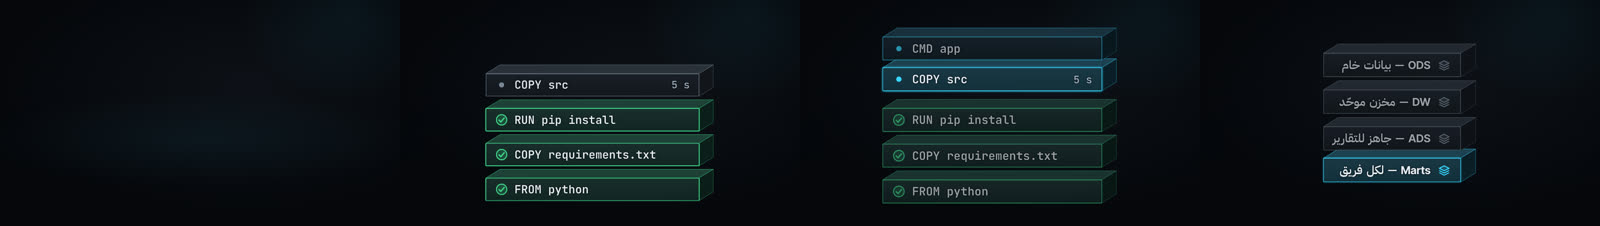
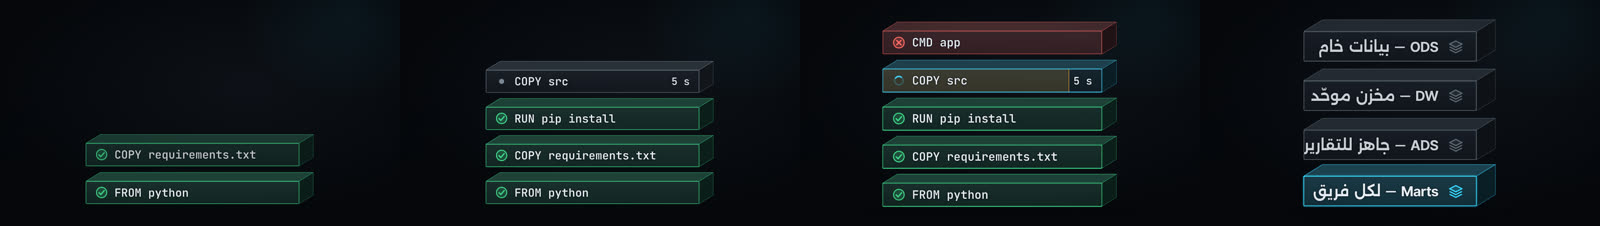
P7 struct-a: LayerStack critic round-1 polish (lift gap, dimmed ink, payoff size ink, floor shadow, n<=4 scale-up, demo retimed so p0 inks and p50 lands mid-cascade; snap PASS det 0 qa 0, baselines pending-critic; perf lite 0.129 / standard 0.155 / hero 0.110 under load; Arabic QA pass)
Claude-Session: https://claude.ai/code/session_01VrU9wxU8GmuhdhWAAHnnQ8

diff --git a/studio/src/components/LayerStack/LayerStack.tsx b/studio/src/components/LayerStack/LayerStack.tsx
@@ -71,15 +71,16 @@ export const LayerStackView: React.FC<DcProps<Props>> = ({props, ctx}) => {
     const w = m.w as number[];
     const hF = Math.round(fs0 * 2.0);
     const depth = Math.round(hF * 0.7);
-    // the top face (dy) of a slab sits in the gap above it: the gap is dy + a margin, so no face ever crosses the copy of the slab above
-    const gap = Math.round(depth * 0.55 + fs0 * 0.3);
+    // the top face (dy) of a slab sits in the gap above it: the gap is dy + the highlight lift + a margin, so no face ever crosses the
+    // copy of the slab above, even when the slab is lifted (critic round 1 item 2)
+    const lift = Math.round(fs0 * 0.2);
+    const gap = Math.round(depth * 0.55 + lift + fs0 * 0.3);
     const icon = Math.round(hF * 0.55);
     const hasSize = sizes.some(Boolean);
     const sizeW = hasSize ? Math.max(...sizes.map((s, i) => (s ? w[n + i] : 0))) + fs0 * 1.2 : 0;
     const W0 = Math.max(...w.slice(0, n)) + fs0 * 1.6 + icon + fs0 * 0.6 + sizeW;
-    const lift = gap * 0.4;
     const nat = {w: W0 + depth * 0.9, h: n * hF + (n - 1) * gap + depth * 0.55 + lift};
-    const fit = fitScale(ctx.id, nat, {w: ctx.box.w, h: ctx.box.h}, fs0, SIZE.labelMin, 1.35);
+    const fit = fitScale(ctx.id, nat, {w: ctx.box.w, h: ctx.box.h}, fs0, SIZE.labelMin, n <= 4 ? 1.7 : 1.35);
     const s = fit.s;
     const ox = (ctx.box.w - nat.w * s) / 2;
     const oy = (ctx.box.h - nat.h * s) / 2 + (depth * 0.55 + lift) * s;
@@ -101,8 +102,10 @@ export const LayerStackView: React.FC<DcProps<Props>> = ({props, ctx}) => {
   hls.forEach((a, k) => {
     const i = a.props.index as number;
     if (i >= n || t < a.at) return;
-    const next = hls[k + 1];
-    const fade = next && t >= next.at ? 1 - revealProgress(t - next.at, lab) : 1;
+    // a later highlight or a rebuildFrom replaces this highlight (the cascade is read on its own)
+    const nexts = [hls[k + 1]?.at, ...acts(ctx, 'rebuildFrom').map((r) => r.at).filter((x) => x > a.at)].filter((x): x is number => x !== undefined);
+    const nx = nexts.length ? Math.min(...nexts) : undefined;
+    const fade = nx !== undefined && t >= nx ? 1 - revealProgress(t - nx, lab) : 1;
     hl[i] = Math.max(hl[i], revealProgress(t - a.at, presetFrames('arrive', fps)) * fade);
   });
   const anyHl = Math.max(0, ...hl);
@@ -119,14 +122,25 @@ export const LayerStackView: React.FC<DcProps<Props>> = ({props, ctx}) => {
     col = mix(col, C.signal, Math.max(hl[i], fresh));
     col = mix(col, C.crit, c.inv);
     // dimming goes through colour, never an opacity < 1
-    const dim = anyHl > 0 && hl[i] < 0.5 ? 1 - 0.35 * anyHl : 1;
+    const dim = anyHl > 0 && hl[i] < 0.5 ? 1 - 0.3 * anyHl : 1;
     const dm = (x: string) => (dim < 1 ? mix(x, C.ground, 1 - dim) : x);
-    return {i, L, c, q, cached, fresh, col: dm(col), dm, y: geo.ys[i] - hl[i] * geo.lift - (1 - q) * 18 * geo.s};
+    // label ink dims only a little so dimmed slabs stay readable at 960 (critic round 1 item 3)
+    const dmInk = (x: string) => (dim < 1 ? mix(x, C.ground, (1 - dim) * 0.45) : x);
+    return {i, L, c, q, cached, fresh, col: dm(col), dm, dmInk, y: geo.ys[i] - hl[i] * geo.lift - (1 - q) * 18 * geo.s};
   });
   return (
     <div style={{position: 'absolute', left: ctx.box.x, top: ctx.box.y, width: ctx.box.w, height: ctx.box.h, ...exitStyle(ctx, dir)}}>
       {m.node}
       <svg width={ctx.box.w} height={ctx.box.h} style={{position: 'absolute', left: 0, top: 0, overflow: 'visible'}}>
+        <defs>
+          <radialGradient id={`${ctx.id}-floor`}>
+            <stop offset="0" stopColor={C.void} stopOpacity={0.85} />
+            <stop offset="1" stopColor={C.void} stopOpacity={0} />
+          </radialGradient>
+        </defs>
+        {slabs[0].q > 0 ? (
+          <ellipse cx={geo.ox + (geo.W + geo.dx) / 2} cy={geo.ys[0] + geo.hF + geo.dy * 0.35} rx={(geo.W + geo.dx) * 0.6} ry={geo.dy * 1.25} fill={`url(#${ctx.id}-floor)`} opacity={slabs[0].q} />
+        ) : null}
         {slabs.map(({i, q, col, y}) => {
           if (q <= 0) return null;
           const x = geo.ox;
@@ -140,7 +154,7 @@ export const LayerStackView: React.FC<DcProps<Props>> = ({props, ctx}) => {
           );
         })}
       </svg>
-      {slabs.map(({i, L, c, q, cached, fresh, col, dm, y}) => {
+      {slabs.map(({i, L, c, q, cached, fresh, col, dm, dmInk, y}) => {
         if (q <= 0) return null;
         const flash = c.invSince >= 0 && c.invSince < ff * 4 ? (c.invSince < ff ? 1 : 1 - (c.invSince - ff) / (3 * ff)) : 0;
         const x = geo.ox;
@@ -188,7 +202,7 @@ export const LayerStackView: React.FC<DcProps<Props>> = ({props, ctx}) => {
                 position: 'relative',
                 whiteSpace: 'nowrap',
                 fontSize: geo.fs,
-                color: dm(C.ink),
+                color: dmInk(C.ink),
                 textShadow: halo,
                 lineHeight: 1.3,
                 ...rv,
@@ -199,7 +213,7 @@ export const LayerStackView: React.FC<DcProps<Props>> = ({props, ctx}) => {
               <MixedText id={`${ctx.id}:l${i}`} text={L.label} size={geo.fs} weight={ar ? FONT.label.strong : FONT.mono.weight} role={ar ? 'sentence' : 'code'} />
             </div>
             {sz ? (
-              <div style={{flex: 'none', width: geo.sizeW, display: 'flex', justifyContent: rtl ? 'flex-start' : 'flex-end', fontSize: geo.fs * 0.9, color: dm(C.ink2), textShadow: halo, position: 'relative'}}>
+              <div style={{flex: 'none', width: geo.sizeW, display: 'flex', justifyContent: rtl ? 'flex-start' : 'flex-end', fontSize: geo.fs * 0.9, color: dmInk(sz && !L.cached ? C.ink : C.ink2), textShadow: halo, position: 'relative'}}>
                 <bdi dir="ltr" data-dc-text={`${ctx.id}:s${i}`} style={{fontFamily: `'${FONT.mono.family}'`, fontWeight: FONT.mono.weight, fontFeatureSettings: '"tnum" 1'}}>
                   {sz}
                 </bdi>

diff --git a/studio/src/demos/struct-a.tsx b/studio/src/demos/struct-a.tsx
@@ -335,15 +335,16 @@ const demos: DemoModule = {
       name: 'LayerStack',
       frames: 312,
       words: words('LayerStack', [
-        [6, 20], // 1 docker entrance
-        [52, 66], // 2 highlight
-        [92, 106], // 3 rebuildFrom
-        [158, 168], // 4 docker exit
-        [172, 186], // 5 terraces entrance
-        [208, 220], // 6 ODS
-        [234, 246], // 7 DW
-        [260, 272], // 8 ADS
-        [286, 298], // 9 marts
+        [0, 14], // 1 docker entrance (first slab inks on frame 0, so the p0 baseline guards it)
+        [56, 70], // 2 highlight COPY src
+        [98, 112], // 3 highlight RUN pip install (cached)
+        [142, 156], // 4 rebuildFrom (the 50 % still lands mid-cascade: crit wave on CMD app, warn bar on COPY src)
+        [190, 200], // 5 docker exit
+        [202, 214], // 6 terraces entrance
+        [232, 244], // 7 ODS
+        [254, 266], // 8 DW
+        [274, 286], // 9 ADS
+        [294, 306], // 10 marts
       ]),
       shot: {
         fx_tier: 'standard',
@@ -355,7 +356,7 @@ const demos: DemoModule = {
               id: 'img',
               slot: 'full',
               variant: 'docker',
-              until: A('LayerStack', 4),
+              until: A('LayerStack', 5),
               layers: [
                 {label: 'FROM python', cached: true},
                 {label: 'COPY requirements.txt', cached: true},
@@ -367,7 +368,8 @@ const demos: DemoModule = {
             at: A('LayerStack', 1),
           },
           {component: 'LayerStack.highlight', props: {target: 'img', index: 3}, at: A('LayerStack', 2)},
-          {component: 'LayerStack.rebuildFrom', props: {target: 'img', index: 3}, at: A('LayerStack', 3)},
+          {component: 'LayerStack.highlight', props: {target: 'img', index: 2}, at: A('LayerStack', 3)},
+          {component: 'LayerStack.rebuildFrom', props: {target: 'img', index: 3}, at: A('LayerStack', 4)},
           {
             component: 'LayerStack',
             props: {
@@ -381,12 +383,12 @@ const demos: DemoModule = {
                 {label: 'ODS — بيانات خام'},
               ],
             },
-            at: A('LayerStack', 5),
+            at: A('LayerStack', 6),
           },
-          {component: 'LayerStack.highlight', props: {target: 'terraces', index: 3}, at: A('LayerStack', 6)},
-          {component: 'LayerStack.highlight', props: {target: 'terraces', index: 2}, at: A('LayerStack', 7)},
-          {component: 'LayerStack.highlight', props: {target: 'terraces', index: 1}, at: A('LayerStack', 8)},
-          {component: 'LayerStack.highlight', props: {target: 'terraces', index: 0}, at: A('LayerStack', 9)},
+          {component: 'LayerStack.highlight', props: {target: 'terraces', index: 3}, at: A('LayerStack', 7)},
+          {component: 'LayerStack.highlight', props: {target: 'terraces', index: 2}, at: A('LayerStack', 8)},
+          {component: 'LayerStack.highlight', props: {target: 'terraces', index: 1}, at: A('LayerStack', 9)},
+          {component: 'LayerStack.highlight', props: {target: 'terraces', index: 0}, at: A('LayerStack', 10)},
         ],
       },
     },

diff --git a/docs/p7/catalog_status/struct-a.md b/docs/p7/catalog_status/struct-a.md
@@ -5,4 +5,4 @@
 | DagRun | implemented | round-2 critic items fixed: taller cards and wider row spread, back-plane grid + glass pool + seeded motes, hard failure moment (crit glow, 2-frame card flash, red wash on outgoing dashed wires, shake), 3 px wires with 1.4x arrowheads (kit Wire arrowK), wires start after both cards settle, @daily chip dropped by a violet line into the first task; demo retimed so the 50 % still lands on the failed flash; snap PASS det 0 (pending-critic); perf box s/frame lite 0.075 / standard 0.090 / hero 0.095 (no WebGL; hero = standard look); qa arabic PASS 5 strings; no printed numbers |
 | TreeView | implemented | variants btree / plan / decision / fs; actions expand, highlightPath, search; snap PASS det 0 on retry (pending-critic; det is intermittently 741 px on any struct-a component incl. DagRun: harness flake, not TreeView); perf box s/frame lite 0.069 / standard 0.091 / hero 0.093 (round-1 polish: edge and leaf-chain strokes 2.2 -> 3 px, re-baselined pending-critic) (no WebGL; hero = standard look); qa arabic PASS 19 strings; demo shows plan funnel, IAM explicit-deny trace, fs outline, 3-level B-tree probe (no printed numbers beyond order ids 1001-1014, d:6.1:12) |
 | PipelineStations | implemented | round-1 critic items fixed: barred track ahead of the failed gate is a 7 px crit dash with a crit glow marching away from the gate, fix ring 2-5 px at 85 % opacity plus a green gate flash and glow pulse, capsule light beam anchored from the capsule to the track with a 3 px tether, back-plane grid, motes fade in with the first gate, gate/label scale cap 1.6 for n<=5; demo retimed (432 f) so the 50 % still lands on the failed ETL gate; 2-8 gate stations on a glass track (RTL: first station on the right), payload capsule; actions advance / fail / fix; distinct from DagRun (linear gates + one travelling payload vs task DAG); snap PASS det 0 qa 0 (pending-critic, baselines re-approved); perf box s/frame lite 0.068 / standard 0.087 / hero 0.085 (no WebGL; hero = standard look); qa arabic PASS 13 strings (the mixed-script tatweel label 'بناء الـImage' is probed at 64 px, because tesseract hallucinates 'قسم' on it at 96-120 px; shaping, tofu, joins, bidi clean); no printed numbers |
-| LayerStack | implemented | variants docker / osi / network / model / generic; layers[0] is the bottom slab (acrylic block: glass front plate, lit top face, darker side face, key light upper right); docker cached slabs carry an ok check and ok edge glow, `size` is a data-contract Num on the reading-end side (demo: 5 s, d:6.7:1); actions highlight (slab lifts, others dim) and rebuildFrom (cascade: slab at index and all above flash crit upward, then rebuild with a warn progress bar and a fresh signal edge, slabs below pulse ok); generic demo = warehouse terraces ODS / DW / ADS / marts (04 section 6); no WebGL (hero = standard look); distinct from StackHeap (memory slabs on a floor) and PartitionLanes; snap PASS det 0 qa 0 (baselines pending-critic); perf box s/frame lite 0.061 / standard 0.083 / hero 0.082; qa arabic PASS 4 strings (labels at 40 px, OCR 1.0 / 1.0 / 0.957 / 1.0); no printed numbers beyond d:6.7:1 |
+| LayerStack | implemented | variants docker / osi / network / model / generic; layers[0] is the bottom slab (acrylic block: glass front plate, lit top face, darker side face, key light upper right); docker cached slabs carry an ok check and ok edge glow, `size` is a data-contract Num on the reading-end side (demo: 5 s, d:6.7:1); actions highlight (slab lifts, others dim) and rebuildFrom (cascade: slab at index and all above flash crit upward, then rebuild with a warn progress bar and a fresh signal edge, slabs below pulse ok); generic demo = warehouse terraces ODS / DW / ADS / marts (04 section 6); no WebGL (hero = standard look); distinct from StackHeap (memory slabs on a floor) and PartitionLanes; snap PASS det 0 qa 0 (baselines pending-critic); perf box s/frame lite 0.129 / standard 0.155 / hero 0.110 (measured at loadavg 9-12 with other jobs running; earlier quiet run 0.061 / 0.083 / 0.082); qa arabic PASS 4 strings (labels at 40 px, OCR min 0.957); critic round-1 non-blocking polish applied (lifted slab gap, dimmed ink one step up, full-ink size on the payoff slab, floor shadow and scale-up to 1.7 for n <= 4, demo retimed so p0 inks on frame 0 and the 50 % still lands mid-cascade with crit CMD app and warn bar on COPY src; a highlight now yields to a later rebuildFrom), baselines re-pending-critic; no printed numbers beyond d:6.7:1 |
